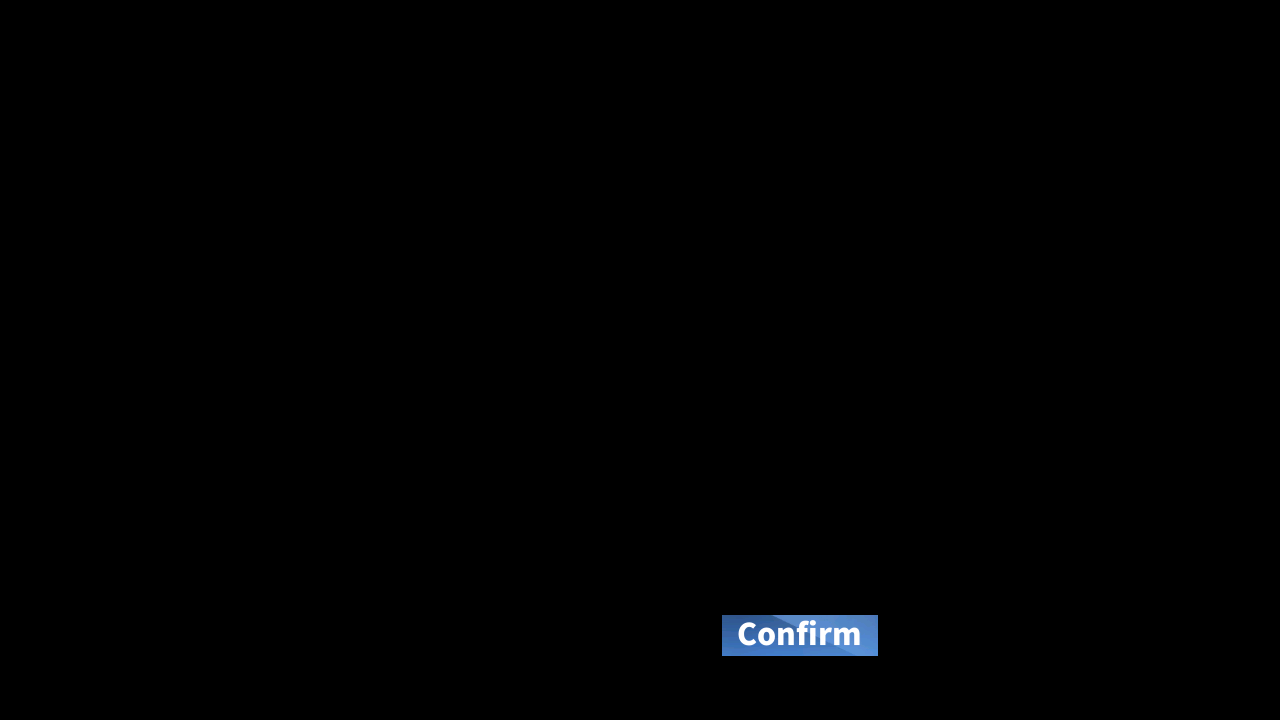
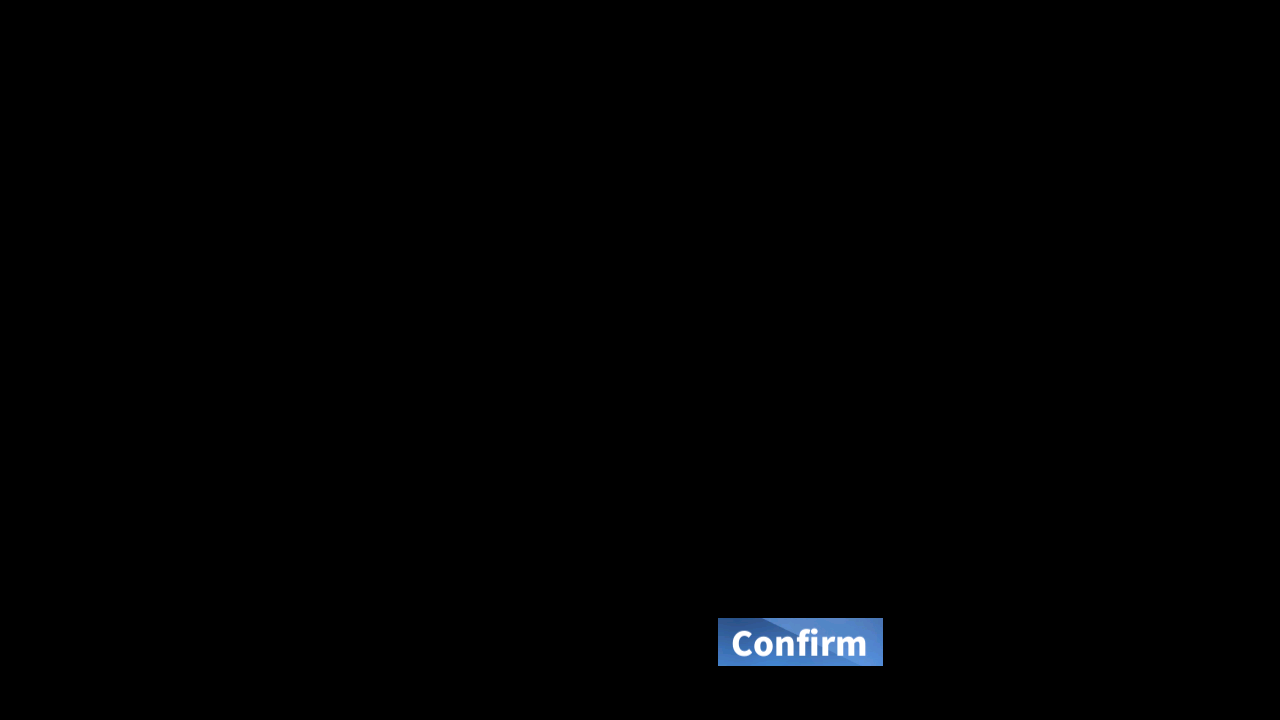
Upd: [EN] DOCK_FILTER_CONFIRM asset

Changed region(s): [[0.5625, 0.8556, 0.6875, 0.9472]]

diff --git a/module/retire/assets.py b/module/retire/assets.py
@@ -9,7 +9,7 @@ COMMON_SHIP_FILTER_ENABLE = Button(area={'cn': (666, 6, 802, 48), 'en': (665, 5,
 DOCK_CHECK = Button(area={'cn': (121, 14, 175, 39), 'en': (121, 17, 189, 39), 'jp': (123, 15, 195, 38), 'tw': (121, 13, 176, 39)}, color={'cn': (156, 171, 207), 'en': (112, 125, 162), 'jp': (97, 108, 142), 'tw': (149, 164, 200)}, button={'cn': (121, 14, 175, 39), 'en': (121, 17, 189, 39), 'jp': (123, 15, 195, 38), 'tw': (121, 13, 176, 39)}, file={'cn': './assets/cn/retire/DOCK_CHECK.png', 'en': './assets/en/retire/DOCK_CHECK.png', 'jp': './assets/jp/retire/DOCK_CHECK.png', 'tw': './assets/tw/retire/DOCK_CHECK.png'})
 DOCK_EMPTY = Button(area={'cn': (95, 347, 388, 378), 'en': (95, 318, 264, 339), 'jp': (96, 347, 252, 376), 'tw': (94, 347, 390, 379)}, color={'cn': (160, 154, 159), 'en': (106, 99, 106), 'jp': (159, 152, 156), 'tw': (163, 157, 162)}, button={'cn': (95, 347, 388, 378), 'en': (95, 318, 264, 339), 'jp': (96, 347, 252, 376), 'tw': (94, 347, 390, 379)}, file={'cn': './assets/cn/retire/DOCK_EMPTY.png', 'en': './assets/en/retire/DOCK_EMPTY.png', 'jp': './assets/jp/retire/DOCK_EMPTY.png', 'tw': './assets/tw/retire/DOCK_EMPTY.png'})
 DOCK_FILTER = Button(area={'cn': (1099, 5, 1193, 48), 'en': (1098, 4, 1194, 49), 'jp': (1101, 6, 1192, 46), 'tw': (1099, 6, 1193, 47)}, color={'cn': (70, 87, 127), 'en': (73, 90, 128), 'jp': (67, 84, 125), 'tw': (78, 96, 137)}, button={'cn': (1099, 5, 1193, 48), 'en': (1098, 4, 1194, 49), 'jp': (1101, 6, 1192, 46), 'tw': (1099, 6, 1193, 47)}, file={'cn': './assets/cn/retire/DOCK_FILTER.png', 'en': './assets/en/retire/DOCK_FILTER.png', 'jp': './assets/jp/retire/DOCK_FILTER.png', 'tw': './assets/tw/retire/DOCK_FILTER.png'})
-DOCK_FILTER_CONFIRM = Button(area={'cn': (714, 613, 886, 671), 'en': (722, 615, 878, 656), 'jp': (715, 608, 884, 662), 'tw': (715, 630, 884, 680)}, color={'cn': (86, 133, 192), 'en': (109, 148, 201), 'jp': (83, 129, 188), 'tw': (83, 130, 190)}, button={'cn': (714, 613, 886, 671), 'en': (722, 615, 878, 656), 'jp': (715, 608, 884, 662), 'tw': (715, 630, 884, 680)}, file={'cn': './assets/cn/retire/DOCK_FILTER_CONFIRM.png', 'en': './assets/en/retire/DOCK_FILTER_CONFIRM.png', 'jp': './assets/jp/retire/DOCK_FILTER_CONFIRM.png', 'tw': './assets/tw/retire/DOCK_FILTER_CONFIRM.png'})
+DOCK_FILTER_CONFIRM = Button(area={'cn': (714, 613, 886, 671), 'en': (718, 618, 883, 666), 'jp': (715, 608, 884, 662), 'tw': (715, 630, 884, 680)}, color={'cn': (86, 133, 192), 'en': (108, 148, 201), 'jp': (83, 129, 188), 'tw': (83, 130, 190)}, button={'cn': (714, 613, 886, 671), 'en': (718, 618, 883, 666), 'jp': (715, 608, 884, 662), 'tw': (715, 630, 884, 680)}, file={'cn': './assets/cn/retire/DOCK_FILTER_CONFIRM.png', 'en': './assets/en/retire/DOCK_FILTER_CONFIRM.png', 'jp': './assets/jp/retire/DOCK_FILTER_CONFIRM.png', 'tw': './assets/tw/retire/DOCK_FILTER_CONFIRM.png'})
 DOCK_SCROLL = Button(area={'cn': (1239, 76, 1248, 641), 'en': (1239, 76, 1248, 641), 'jp': (1237, 78, 1250, 628), 'tw': (1239, 76, 1248, 641)}, color={'cn': (47, 46, 37), 'en': (47, 46, 37), 'jp': (180, 156, 66), 'tw': (47, 46, 37)}, button={'cn': (1239, 76, 1248, 641), 'en': (1239, 76, 1248, 641), 'jp': (1237, 78, 1250, 628), 'tw': (1239, 76, 1248, 641)}, file={'cn': './assets/cn/retire/DOCK_SCROLL.png', 'en': './assets/en/retire/DOCK_SCROLL.png', 'jp': './assets/jp/retire/DOCK_SCROLL.png', 'tw': './assets/tw/retire/DOCK_SCROLL.png'})
 DOCK_SELECTED = Button(area={'cn': (555, 665, 605, 686), 'en': (696, 659, 751, 689), 'jp': (585, 663, 644, 688), 'tw': (555, 665, 605, 686)}, color={'cn': (83, 86, 96), 'en': (69, 70, 79), 'jp': (69, 71, 82), 'tw': (83, 86, 96)}, button={'cn': (555, 665, 605, 686), 'en': (696, 659, 751, 689), 'jp': (585, 663, 644, 688), 'tw': (555, 665, 605, 686)}, file={'cn': './assets/cn/retire/DOCK_SELECTED.png', 'en': './assets/en/retire/DOCK_SELECTED.png', 'jp': './assets/jp/retire/DOCK_SELECTED.png', 'tw': './assets/tw/retire/DOCK_SELECTED.png'})
 ENHANCE_CONFIRM = Button(area={'cn': (1126, 602, 1256, 645), 'en': (1130, 603, 1255, 643), 'jp': (1126, 601, 1257, 646), 'tw': (1126, 602, 1257, 644)}, color={'cn': (203, 149, 81), 'en': (204, 148, 82), 'jp': (189, 139, 78), 'tw': (198, 145, 82)}, button={'cn': (1126, 602, 1256, 645), 'en': (1130, 603, 1255, 643), 'jp': (1126, 601, 1257, 646), 'tw': (1126, 602, 1257, 644)}, file={'cn': './assets/cn/retire/ENHANCE_CONFIRM.png', 'en': './assets/en/retire/ENHANCE_CONFIRM.png', 'jp': './assets/jp/retire/ENHANCE_CONFIRM.png', 'tw': './assets/tw/retire/ENHANCE_CONFIRM.png'})
